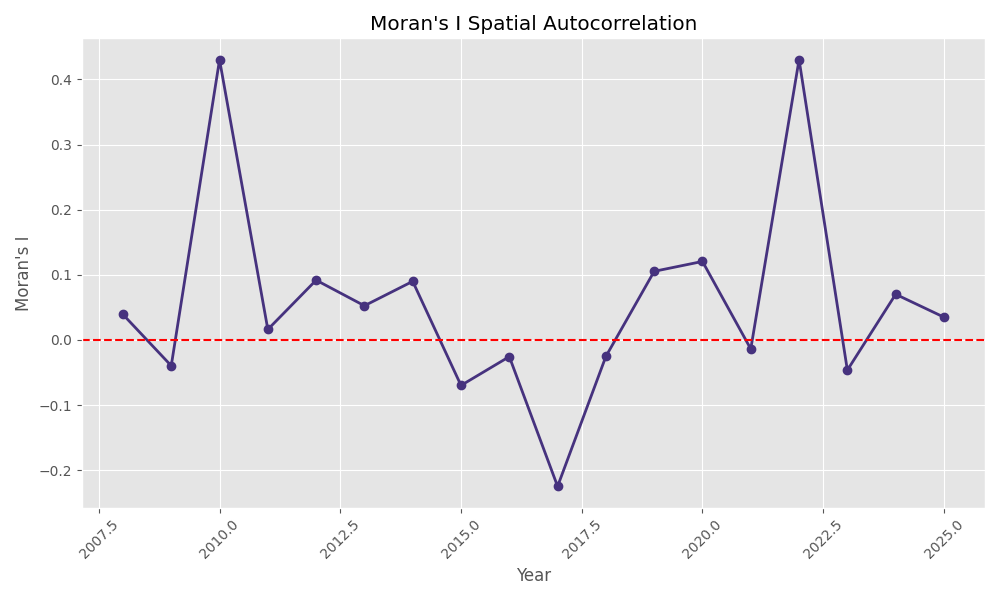
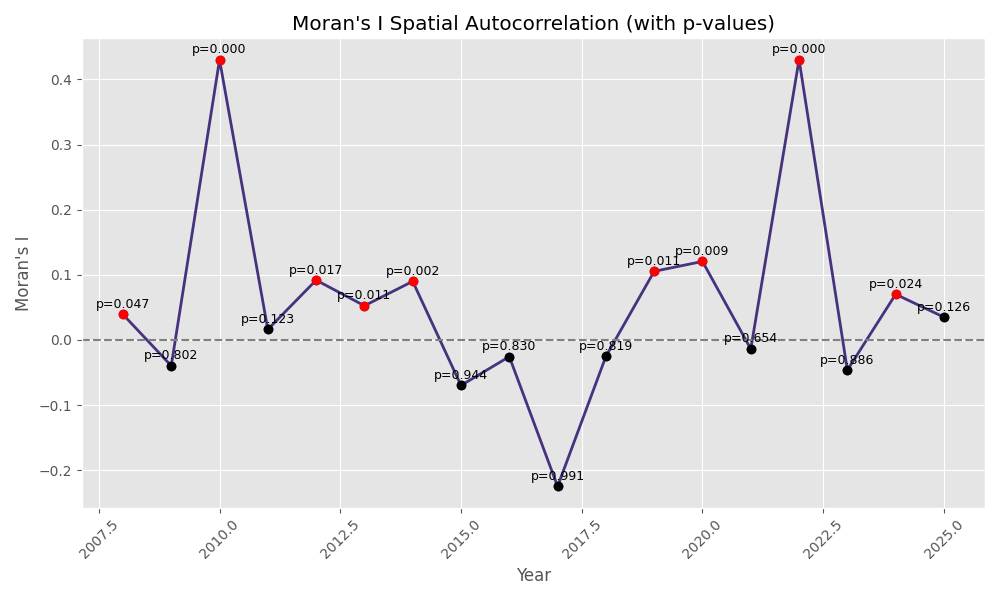
added p-value calculation

diff --git a/network_analysis.py b/network_analysis.py
@@ -36,20 +36,32 @@ def compute_changes(pivot):
             changes[y] = pivot[y] - pivot[years[i-1]]
     return changes
 
-def morans_i(values, G):
+def morans_i(values, G, permutations=999, seed=42):
+    rng = np.random.default_rng(seed)
     x = values.values
-    n = len(x)
     w = nx.to_numpy_array(G, nodelist=values.index)
-    w_sum = w.sum()
     x_mean = np.nanmean(x)
     diff = x - x_mean
-    num = 0
-    for i in range(n):
-        for j in range(n):
-            if not np.isnan(diff[i]) and not np.isnan(diff[j]):
-                num += w[i,j] * diff[i] * diff[j]
-    den = np.nansum(diff**2)
-    return (n / w_sum) * num / den
+    
+    valid = ~np.isnan(diff)
+    diff_valid = diff[valid]
+    w_valid = w[np.ix_(valid, valid)]
+    
+    num = np.sum(w_valid * np.outer(diff_valid, diff_valid))
+    den = np.sum(diff_valid ** 2)
+    observed_I = (len(diff_valid) / w_valid.sum()) * (num / den)
+    
+    permuted_Is = []
+    for _ in range(permutations):
+        permuted = rng.permutation(diff_valid)
+        num_perm = np.sum(w_valid * np.outer(permuted, permuted))
+        I_perm = (len(diff_valid) / w_valid.sum()) * (num_perm / den)
+        permuted_Is.append(I_perm)
+
+    permuted_Is = np.array(permuted_Is)
+    p_value = np.mean(permuted_Is >= observed_I)
+    
+    return observed_I, p_value
 
 def diffusion_errors(pivot, G):
     A = nx.to_numpy_array(G, nodelist=pivot.index)
@@ -117,17 +129,28 @@ def granger_spillover(pivot, G, lag=1):
             results.append((v, u, p_reverse, "->"))
     return results
 
-def plot_morans_i(results, filename=None):
+def plot_morans_i(results, filename=None, alpha=0.05):
     plt.figure(figsize=(10, 6))
+    
     years = list(results.keys())
-    values = list(results.values())
-    plt.plot(years, values, 'o-', linewidth=2)
-    plt.axhline(y=0, color='r', linestyle='--')
-    plt.title("Moran's I Spatial Autocorrelation")
+    morans_i = [v[0] for v in results.values()]
+    p_values = [v[1] for v in results.values()]
+    
+    significant = [p < alpha for p in p_values]
+    plt.plot(years, morans_i, 'o-', linewidth=2, label="Moran's I")
+    
+    for i, (x, y, sig, p) in enumerate(zip(years, morans_i, significant, p_values)):
+        color = 'red' if sig else 'black'
+        plt.plot(x, y, 'o', color=color)
+        plt.text(x, y + 0.01, f"p={p:.3f}", ha='center', fontsize=9)
+    
+    plt.axhline(y=0, color='gray', linestyle='--')
+    plt.title("Moran's I Spatial Autocorrelation (with p-values)")
     plt.xlabel('Year')
     plt.ylabel("Moran's I")
     plt.xticks(rotation=45)
     plt.tight_layout()
+    
     if filename:
         plt.savefig(filename)
         plt.close()
@@ -216,9 +239,9 @@ def main():
     
     morans_results = {}
     for y in sorted(changes.columns)[1:]:
-        I = morans_i(changes[y].fillna(0), G)
-        morans_results[y] = I
-        print(f"Moran's I ({y}): {I:.4f}")
+        I, p = morans_i(changes[y].fillna(0), G)
+        morans_results[y] = (I, p)
+        print(f"{y} Moran's I: {I:.4f}, p-value: {p:.4f}")
     plot_morans_i(morans_results, OUTPUT_DIR / "morans_i.png")
     
     errors = diffusion_errors(pivot, G)
